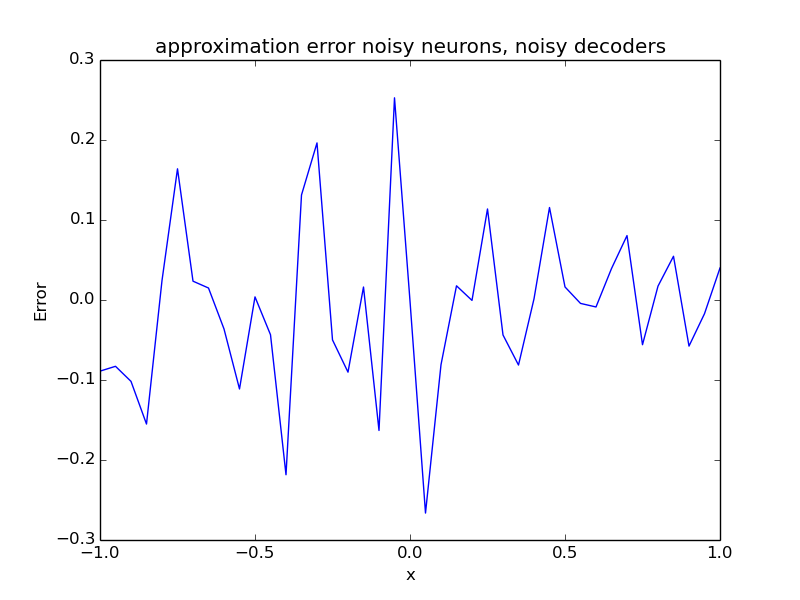
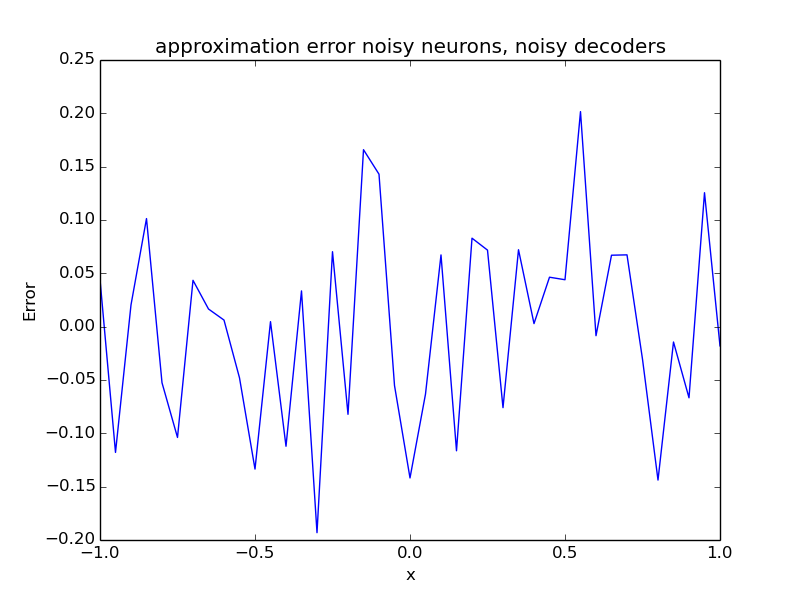
got whitenoise working

diff --git a/SYDE750_ass1/q1_2.py b/SYDE750_ass1/q1_2.py
@@ -5,6 +5,8 @@ import matplotlib as mpl
 
 from utils import calc_rmse, rec_lin_neuron, lif_neuron, get_activities, get_decoders, plot_xhat
 
+logfile = open("test_results.txt", "w")
+
 def q1_2(noise_val, filename):
 	N_vals = [4, 8, 16, 32, 64, 128, 256]#, 512, 1024, 2048]#, 4096, 8192]
 	err_dist = []
@@ -31,13 +33,16 @@ def q1_2(noise_val, filename):
 
 			# generate with noise
 			A_noisy = A.T + np.random.normal(scale=0.2*np.max(A), size=A.T.shape)
-			decoders_noisy, x_hat_noisy = get_decoders(A_noisy.T, S, x_vals)
-			# get E_noise
+			#decoders_noisy, x_hat_noisy = get_decoders(A_noisy.T, S, x_vals)
+			x_hat_noisy = np.dot(A_noisy, decoders)
+			# get E_noise, which is the remaining error after removing E_dist
 			e_noise = calc_rmse(x_hat_noisy, x_vals)
-			e_noise_avg += (e_noise - e_dist)
+			e_noise_avg += e_noise - e_dist
 
-		err_dist.append(e_dist_avg/5)
-		err_noise.append(e_noise_avg/5)
+		print(e_noise_avg)
+		# average the result over the 5 runs
+		err_dist.append(e_dist_avg/5.0)
+		err_noise.append(e_noise_avg/5.0)
 
 	# plot the result
 	over_N = lambda N: 1.0/N
@@ -49,25 +54,26 @@ def q1_2(noise_val, filename):
 	plt.loglog(N_vals, over_N_squared(np.array(N_vals)), label="1/N^2")
 	plt.loglog(N_vals, over_N_4(np.array(N_vals)), label="1/N^4")
 	plt.loglog(N_vals, err_dist, label="Distortion Error")
-	#plt.set_yscale('log')
-	#plt.set_xscale('log')
 	plt.ylabel("Error")
 	plt.xlabel("Number of Neurons")
 	plt.title("Distortion Error with Noise=%s" %noise_val)
 	plt.legend(loc=3)
 	fig.savefig("dist_%s" %filename)
+	logfile.write(str(err_dist))
+	logfile.write("\n")
 
 	# plot the noise error proportional to 1/N
 	fig = plt.figure()
 	plt.loglog(N_vals, over_N(np.array(N_vals)), label="1/N")
-	plt.loglog(N_vals, err_dist, label="Noise Error")
-	#plt.set_yscale('log')
-	#plt.set_xscale('log')
+	print(len(err_noise))
+	plt.loglog(N_vals, err_noise, label="Noise Error")
 	plt.ylabel("Error")
 	plt.xlabel("Number of Neurons")
 	plt.title("Noise Error with Noise=%s" %noise_val)
 	plt.legend(loc=3)
 	fig.savefig("noise_%s" %filename)
+	logfile.write(str(err_noise))
+	logfile.write("\n")
 
 q1_2(0.1, "1_2_high")
 q1_2(0.01, "1_2_low")

diff --git a/SYDE750_ass1/q2_2.py b/SYDE750_ass1/q2_2.py
@@ -35,8 +35,7 @@ def get_2d_decoders(A, S, x_vals):
 	# I'll get two dimensional decoders....
 	decoders_0 = np.dot(np.linalg.pinv(gamma), upsilon_0)
 	decoders_1 = np.dot(np.linalg.pinv(gamma), upsilon_1)
-	# Which I can just add up again to get the approximate value?
-	# It's worth a shot
+	# Which I can just add up again to get the approximate value
 	x_hat = np.dot(A.T, decoders_0) + np.dot(A.T, decoders_1)
 	decoders = np.array([decoders_0, decoders_1])
 	return decoders, x_hat
@@ -75,11 +74,6 @@ A_noisy = A.T + np.random.normal(scale=0.2*np.max(A), size=A.T.shape)
 S = x_vals[0].size
 decoders_noisy, x_hat_noisy = get_2d_decoders(A_noisy.T, S, x_vals)
 
-# for these test values, do I need to regenerate decoders or do I just use the existing decoders, but limit how many of them I need, since there aren't as many x-values?
-# is this the same as padding the rest of the x-values with zeros?
-# nope, because there's some neurons that really like zeros
-# test it out with the other x-values
-# That's not how you generate points in the unit circle
 test_vals = gen_circle_points(20)
 new_A, neurons = get_2d_activities(
 	lif_neuron,

diff --git a/SYDE750_ass1/utils.py b/SYDE750_ass1/utils.py
@@ -13,14 +13,11 @@ def calc_rmse(predictions, targets):
 
 def rec_lin_neuron(x_inter, max_fire, x_max=1.0):
 	def rec_lin(x):
-		return np.minimum(
-				np.maximum(
+		return np.maximum(
 					x * (max_fire/(x_max-x_inter))
 					- x_inter * (max_fire/(x_max-x_inter)),
 					np.zeros(x.size)
-				),
-				max_fire
-			)
+				)
 	return rec_lin
 
 def lif_neuron(x_inter, max_fire, t_ref=0.002, t_rc=0.02):
@@ -35,16 +32,12 @@ def lif_neuron(x_inter, max_fire, t_ref=0.002, t_rc=0.02):
 		J = x * alpha + J_bias
 		return_val = np.zeros(x.shape[0])
 		# Select all the values where J > 1
-		return_val[J > 1] += np.minimum(
-					np.maximum(
+		return_val[J > 1] += np.maximum(
 						# Caluclate the activity
 						1.0/(t_ref-t_rc*np.log(1-1/J[J > 1])),
 						# make it zero if it's below zero
 						np.zeros(return_val[J > 1].size)
-					),
-					# make it the max firing rate if it's above the max firing rate
-					max_fire
-				)
+					)
 		return return_val
 	return lif
 

diff --git a/SYDE750_ass1/q2_1.py b/SYDE750_ass1/q2_1.py
@@ -16,16 +16,12 @@ def lif_neuron(x_inter, max_fire, t_ref=0.002, t_rc=0.02):
 		
 		return_val = np.zeros(J.shape)
 		# Select all the values where J > 1
-		return_val[J > 1] += np.minimum(
-					np.maximum(
-						# Caluclate the activity
-						1/(t_ref-t_rc*np.log(1-1/J[J > 1])),
-						# make it zero if it's below zero
-						np.zeros(return_val[J > 1].size)
-					),
-					# make it the max firing rate if it's above the max firing rate
-					max_fire
-				)
+		return_val[J > 1] += np.maximum(
+							# Caluclate the activity
+							1/(t_ref-t_rc*np.log(1-1/J[J > 1])),
+							# make it zero if it's below zero
+							np.zeros(return_val[J > 1].size)
+						)
 		# this should also return a scalar
 		return return_val
 	return lif

diff --git a/SYDE750_ass1/q1_1.py b/SYDE750_ass1/q1_1.py
@@ -5,6 +5,8 @@ import matplotlib as mpl
 
 from utils import calc_rmse, rec_lin_neuron, lif_neuron, get_activities, get_decoders, plot_xhat
 
+logfile = open("log_q1_1.txt", "w")
+
 n_neurons = 16
 rmse = []
 
@@ -28,6 +30,8 @@ fig.savefig("1_1a")
 
 decoders, x_hat = get_decoders(A, S, x_vals)
 print("decoders %s" %decoders)
+logfile.write(str(decoders))
+logfile.write("\n")
 
 plot_xhat(x_vals, x_hat, "noiseless neurons, noiseless decoders", "1_1c")
 
@@ -60,3 +64,4 @@ plot_xhat(x_vals, noiseless_xhat, "noiseless neurons, noisy decoders", "1_1e_noi
 
 rmse.append(calc_rmse(noiseless_xhat, x_vals))
 print("rmse %s" %rmse[-1])
+logfile.write(str(rmse))

diff --git a/SYDE750_ass1/q1_3.py b/SYDE750_ass1/q1_3.py
@@ -31,7 +31,7 @@ fig.savefig("1_3a")
 A_noisy = A.T + np.random.normal(scale=0.2*np.max(A), size=A.T.shape)
 decoders_noisy, x_hat_noisy = get_decoders(A_noisy.T, S, x_vals)
 
-plot_xhat(x_vals, x_hat_noisy, "noisy neurons, noiseless decoders", "1_3b")
+plot_xhat(x_vals, x_hat_noisy, "noisy neurons, noisy decoders", "1_3b")
 
 rmse.append(calc_rmse(x_hat_noisy, x_vals))
 print("rmse %s" %rmse[-1])
